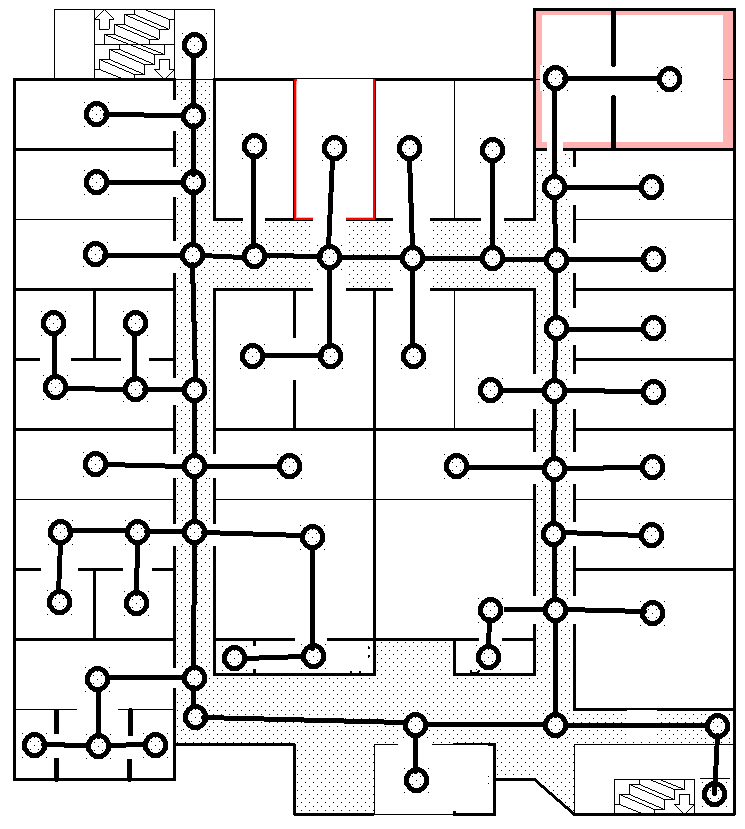
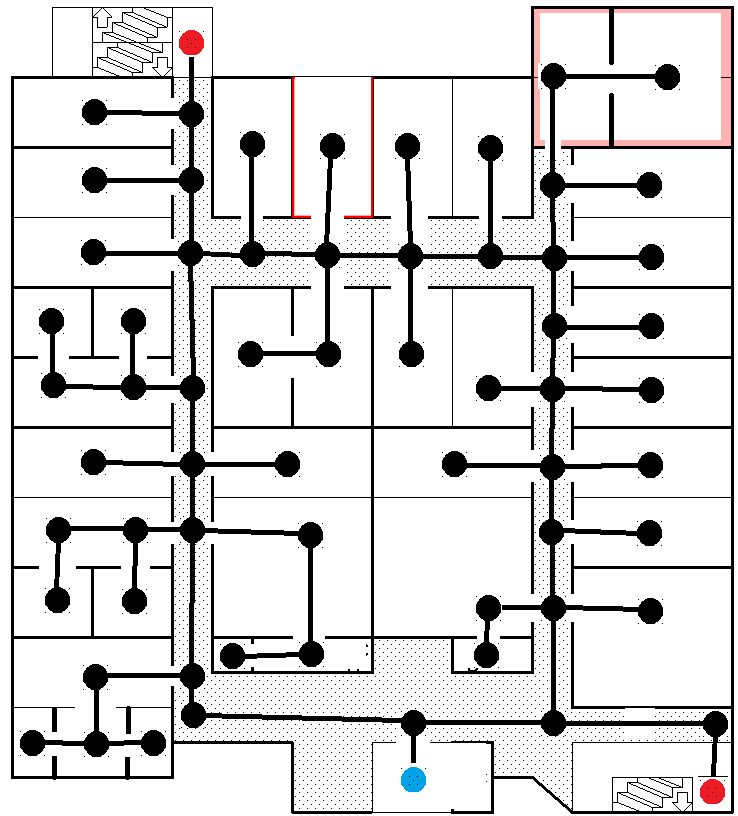
ændret i billedet og billedet tekst til representing the floor

Changed region(s): [[0.0, 0.0, 0.9973, 1.0], [0.8726, 0.0613, 0.935, 0.1225], [0.0935, 0.1225, 0.1558, 0.1532]]

diff --git a/Report/Chapters/problem_solution/mapping.tex b/Report/Chapters/problem_solution/mapping.tex
@@ -13,7 +13,7 @@ Every point where a user is presented with a choice of changing direction, is re
 \begin{figure}[ht!]
     \centering
     \includegraphics[width=0.5\textwidth]{floorplan_graf}
-    \caption{representation of a graph on a floor plan.}
+    \caption{representation of a graph on a floor plan. \cite{billedafbygningudengraf}, Red Circles are Exits, Blue Circles are Elevators and Black Circles are Normals vertex'es}
     \label{fig:floorplan_graf}
   \end{figure}
 
